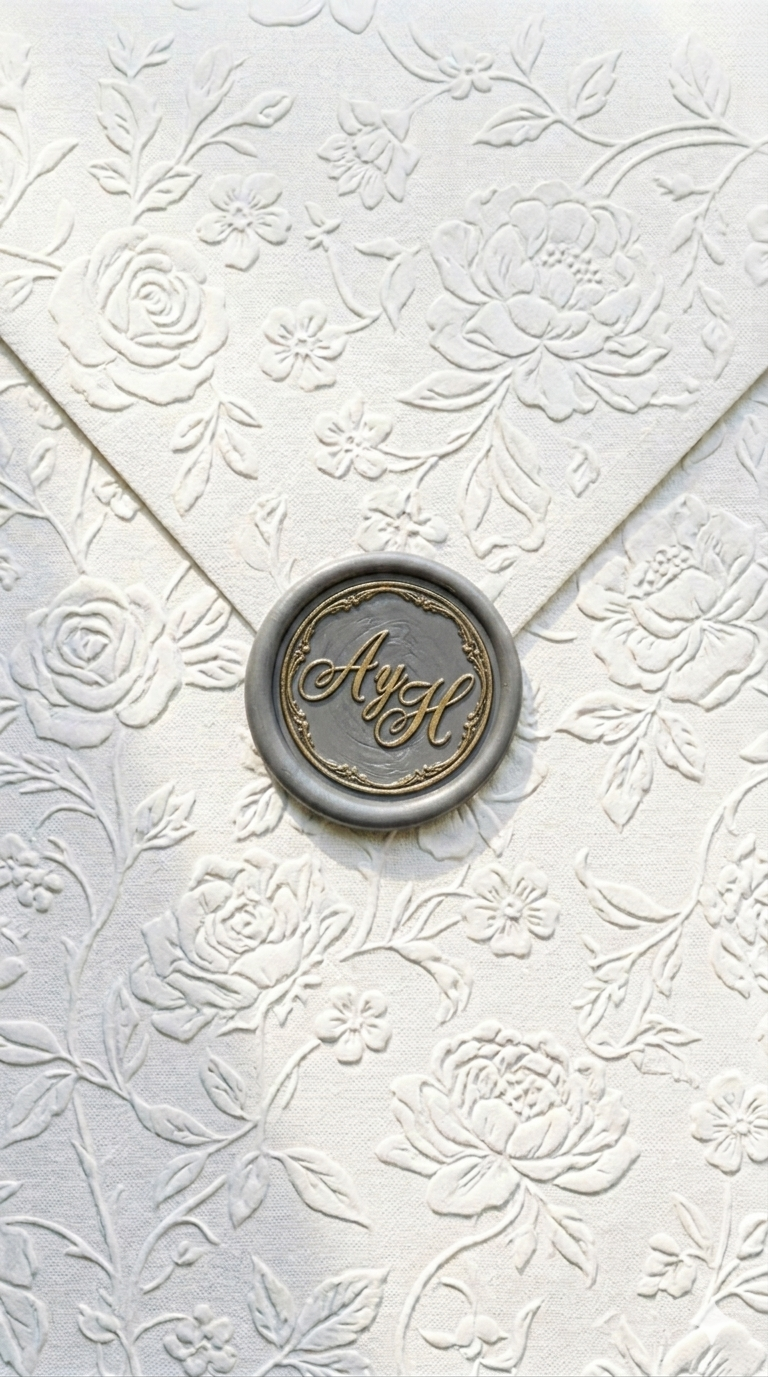
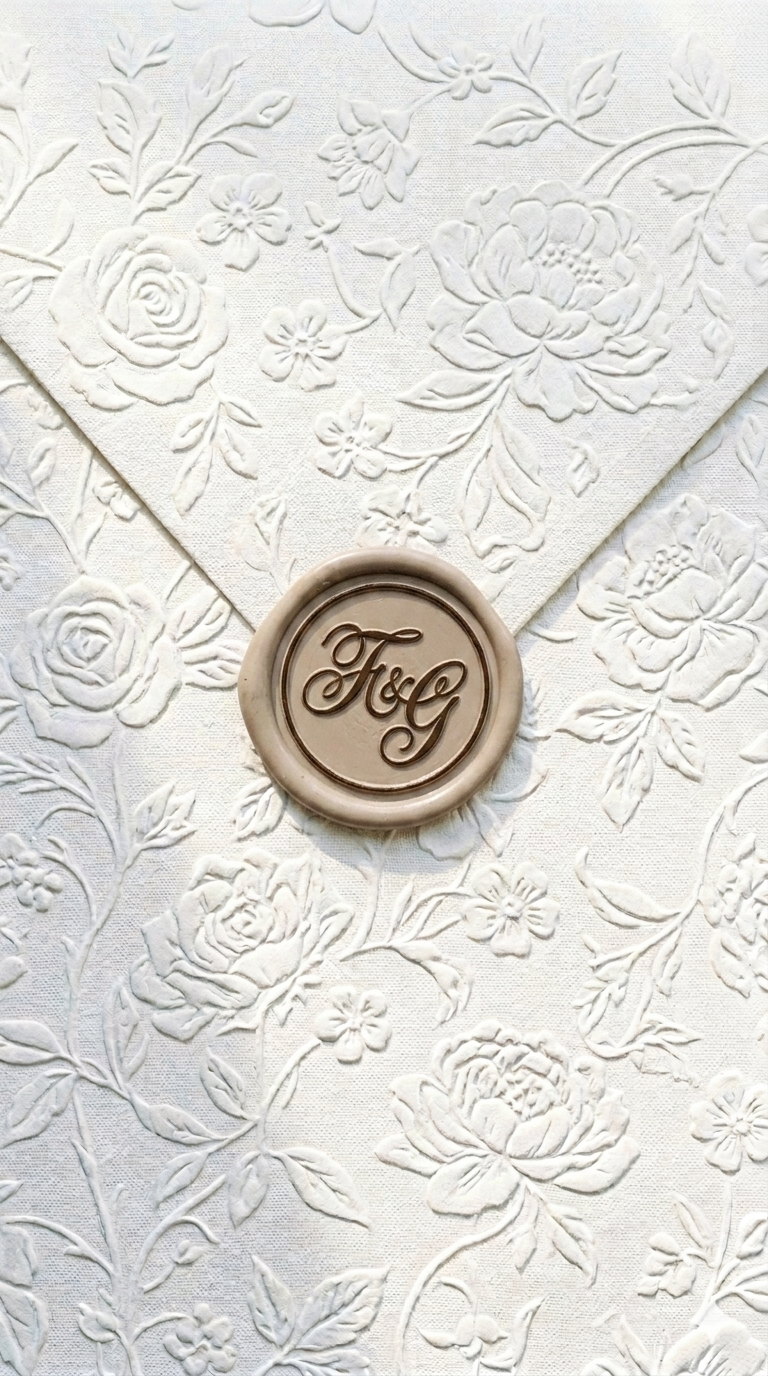
fix: orden Fernanda y Guillermo + sobre nuevo + video apertura

diff --git a/index.html b/index.html
@@ -3,12 +3,12 @@
 <head>
 <meta charset="UTF-8">
 <meta name="viewport" content="width=device-width, initial-scale=1.0, maximum-scale=1.0">
-<title>Guillermo &amp; Fernanda · Boda · 4 Julio 2026</title>
-<meta name="description" content="Invitación de boda de Guillermo David Quintero Salazar y Fernanda Lara Torres · 4 de julio de 2026 · Matamoros, Tamaulipas">
+<title>Fernanda &amp; Guillermo · Boda · 4 Julio 2026</title>
+<meta name="description" content="Invitación de boda de Fernanda Lara Torres y Guillermo David Quintero Salazar · 4 de julio de 2026 · Matamoros, Tamaulipas">
 <!-- Open Graph / WhatsApp preview -->
 <meta property="og:type"        content="website">
 <meta property="og:url"         content="https://boda-guillermo-y-fernanda.vercel.app/">
-<meta property="og:title"       content="Guillermo &amp; Fernanda · Boda · 4 Julio 2026">
+<meta property="og:title"       content="Fernanda &amp; Guillermo · Boda · 4 Julio 2026">
 <meta property="og:description" content="Nos casamos el 4 de julio de 2026 en Matamoros, Tamaulipas. ¡Estás invitado!">
 <meta property="og:image"       content="https://boda-guillermo-y-fernanda.vercel.app/sobre.png">
 <meta property="og:image:width"  content="1200">
@@ -455,7 +455,7 @@ footer .fc a{color:inherit;text-decoration:none;}
 
 <!-- ENVELOPE -->
 <div id="envelope-screen" role="button" aria-label="Toca para abrir tu invitación">
-  <img id="env-image" src="./sobre.png" alt="Invitación Guillermo y Fernanda">
+  <img id="env-image" src="./sobre.png" alt="Invitación Fernanda y Guillermo">
   <video id="env-video" src="./sobre-apertura.mp4" playsinline webkit-playsinline muted preload="auto"></video>
   <p class="envelope-hint" id="env-hint">Toca para abrir</p>
 </div>
@@ -486,9 +486,9 @@ footer .fc a{color:inherit;text-decoration:none;}
     <div class="hero-bottom">
       <div class="hero-eyebrow" id="hEb">Sábado · 4 de Julio · 2026</div>
       <h1 class="hero-names" id="hNm">
-        Guillermo
-        <span class="hero-amp">&amp;</span>
         Fernanda
+        <span class="hero-amp">&amp;</span>
+        Guillermo
       </h1>
       <div class="hero-badge" id="hBd">
         <span>Matamoros · Tamaulipas</span>
@@ -555,13 +555,13 @@ footer .fc a{color:inherit;text-decoration:none;}
       <p class="mensaje-texto">
         "Queremos compartir con las personas que más amamos este momento tan especial. Únete a nosotros en nuestra fiesta y celebra con nosotros el comienzo de una nueva historia."
       </p>
-      <span class="mensaje-firma">Guillermo &amp; Fernanda</span>
+      <span class="mensaje-firma">Fernanda &amp; Guillermo</span>
     </div>
   </section>
 
   <!-- FOTO 1 — post-mensaje -->
   <div class="photo-moment photo-moment--cinema rv">
-    <img src="https://bsjoelxktbvlavfoozhk.supabase.co/storage/v1/object/public/fotos-clientes/b4b7737b-1a85-4c1c-99c0-baa28121c0c2/1779772556606-3.jpeg" alt="Guillermo y Fernanda" loading="lazy">
+    <img src="https://bsjoelxktbvlavfoozhk.supabase.co/storage/v1/object/public/fotos-clientes/b4b7737b-1a85-4c1c-99c0-baa28121c0c2/1779772556606-3.jpeg" alt="Fernanda y Guillermo" loading="lazy">
   </div>
 
   <!-- ORNAMENTO -->
@@ -594,7 +594,7 @@ footer .fc a{color:inherit;text-decoration:none;}
   <!-- FOTO 2 — portrait post-ubicación -->
   <div class="photo-moment photo-moment--portrait rv">
     <div class="pm-inner">
-      <img src="https://bsjoelxktbvlavfoozhk.supabase.co/storage/v1/object/public/fotos-clientes/b4b7737b-1a85-4c1c-99c0-baa28121c0c2/1779772568157-0.jpeg" alt="Guillermo y Fernanda" loading="lazy">
+      <img src="https://bsjoelxktbvlavfoozhk.supabase.co/storage/v1/object/public/fotos-clientes/b4b7737b-1a85-4c1c-99c0-baa28121c0c2/1779772568157-0.jpeg" alt="Fernanda y Guillermo" loading="lazy">
     </div>
   </div>
 
@@ -664,7 +664,7 @@ footer .fc a{color:inherit;text-decoration:none;}
 
   <!-- FOTO 3 — wide post-itinerario -->
   <div class="photo-moment photo-moment--wide rv">
-    <img src="https://bsjoelxktbvlavfoozhk.supabase.co/storage/v1/object/public/fotos-clientes/b4b7737b-1a85-4c1c-99c0-baa28121c0c2/1779772576096-0.jpeg" alt="Guillermo y Fernanda" loading="lazy">
+    <img src="https://bsjoelxktbvlavfoozhk.supabase.co/storage/v1/object/public/fotos-clientes/b4b7737b-1a85-4c1c-99c0-baa28121c0c2/1779772576096-0.jpeg" alt="Fernanda y Guillermo" loading="lazy">
   </div>
 
   <!-- ORNAMENTO -->
@@ -725,7 +725,7 @@ footer .fc a{color:inherit;text-decoration:none;}
 
   <!-- FOTO 4 — post-dress code -->
   <div class="photo-moment rv">
-    <img src="https://bsjoelxktbvlavfoozhk.supabase.co/storage/v1/object/public/fotos-clientes/b4b7737b-1a85-4c1c-99c0-baa28121c0c2/1779772583465-0.jpeg" alt="Guillermo y Fernanda" loading="lazy">
+    <img src="https://bsjoelxktbvlavfoozhk.supabase.co/storage/v1/object/public/fotos-clientes/b4b7737b-1a85-4c1c-99c0-baa28121c0c2/1779772583465-0.jpeg" alt="Fernanda y Guillermo" loading="lazy">
   </div>
 
   <!-- ORNAMENTO -->
@@ -888,7 +888,7 @@ footer .fc a{color:inherit;text-decoration:none;}
 
   <!-- FOOTER — OBLIGATORIA -->
   <footer>
-    <div class="fn">Guillermo &amp; Fernanda</div>
+    <div class="fn">Fernanda &amp; Guillermo</div>
     <div class="fd">4 · Julio · 2026 · Matamoros, Tam.</div>
     <div class="fc">Invitación creada por <a href="https://www.instagram.com/elysium.invitaciones" target="_blank" rel="noopener">@elysium.invitaciones</a></div>
   </footer>
@@ -900,7 +900,7 @@ footer .fc a{color:inherit;text-decoration:none;}
   <div class="vinyl-spin">
     <div class="vinyl-disc">
       <div class="vinyl-sheen"></div>
-      <div class="vinyl-label-text">G&amp;F<small>♪</small></div>
+      <div class="vinyl-label-text">F&amp;G<small>♪</small></div>
       <div class="vinyl-hole"></div>
     </div>
     <div class="vinyl-icons" aria-hidden="true">
@@ -926,7 +926,7 @@ gsap.registerPlugin(ScrollTrigger);
 
 /* ── RSVP botón único WhatsApp ── */
 (function(){
-  var waMsg = '¡Hola! Con mucho gusto confirmo mi asistencia a la celebración de Guillermo David Quintero Salazar y Fernanda Lara Torres. 🎉 ¡Nos vemos pronto! 💫';
+  var waMsg = '¡Hola! Con mucho gusto confirmo mi asistencia a la celebración de Fernanda Lara Torres y Guillermo David Quintero Salazar. 🎉 ¡Nos vemos pronto! 💫';
   var waUrl = 'https://wa.me/528341012950?text=' + encodeURIComponent(waMsg);
   var btn = document.getElementById('rsvpWaBtn');
   if(btn) btn.href = waUrl;
@@ -1179,7 +1179,7 @@ function initDressCode(){
 
 /* ── GOOGLE CALENDAR ── */
 (function(){
-  var t=encodeURIComponent('Boda de Guillermo & Fernanda');
+  var t=encodeURIComponent('Boda de Fernanda & Guillermo');
   var d=encodeURIComponent('Recepcin: 6:30 pm — Matamoros, Tamaulipas');
   var l=encodeURIComponent('Matamoros, Tamaulipas, México');
   document.getElementById('gcalBtn').href='https://calendar.google.com/calendar/render?action=TEMPLATE&text='+t+'&dates=20260705T003000Z/20260705T060000Z&details='+d+'&location='+l;